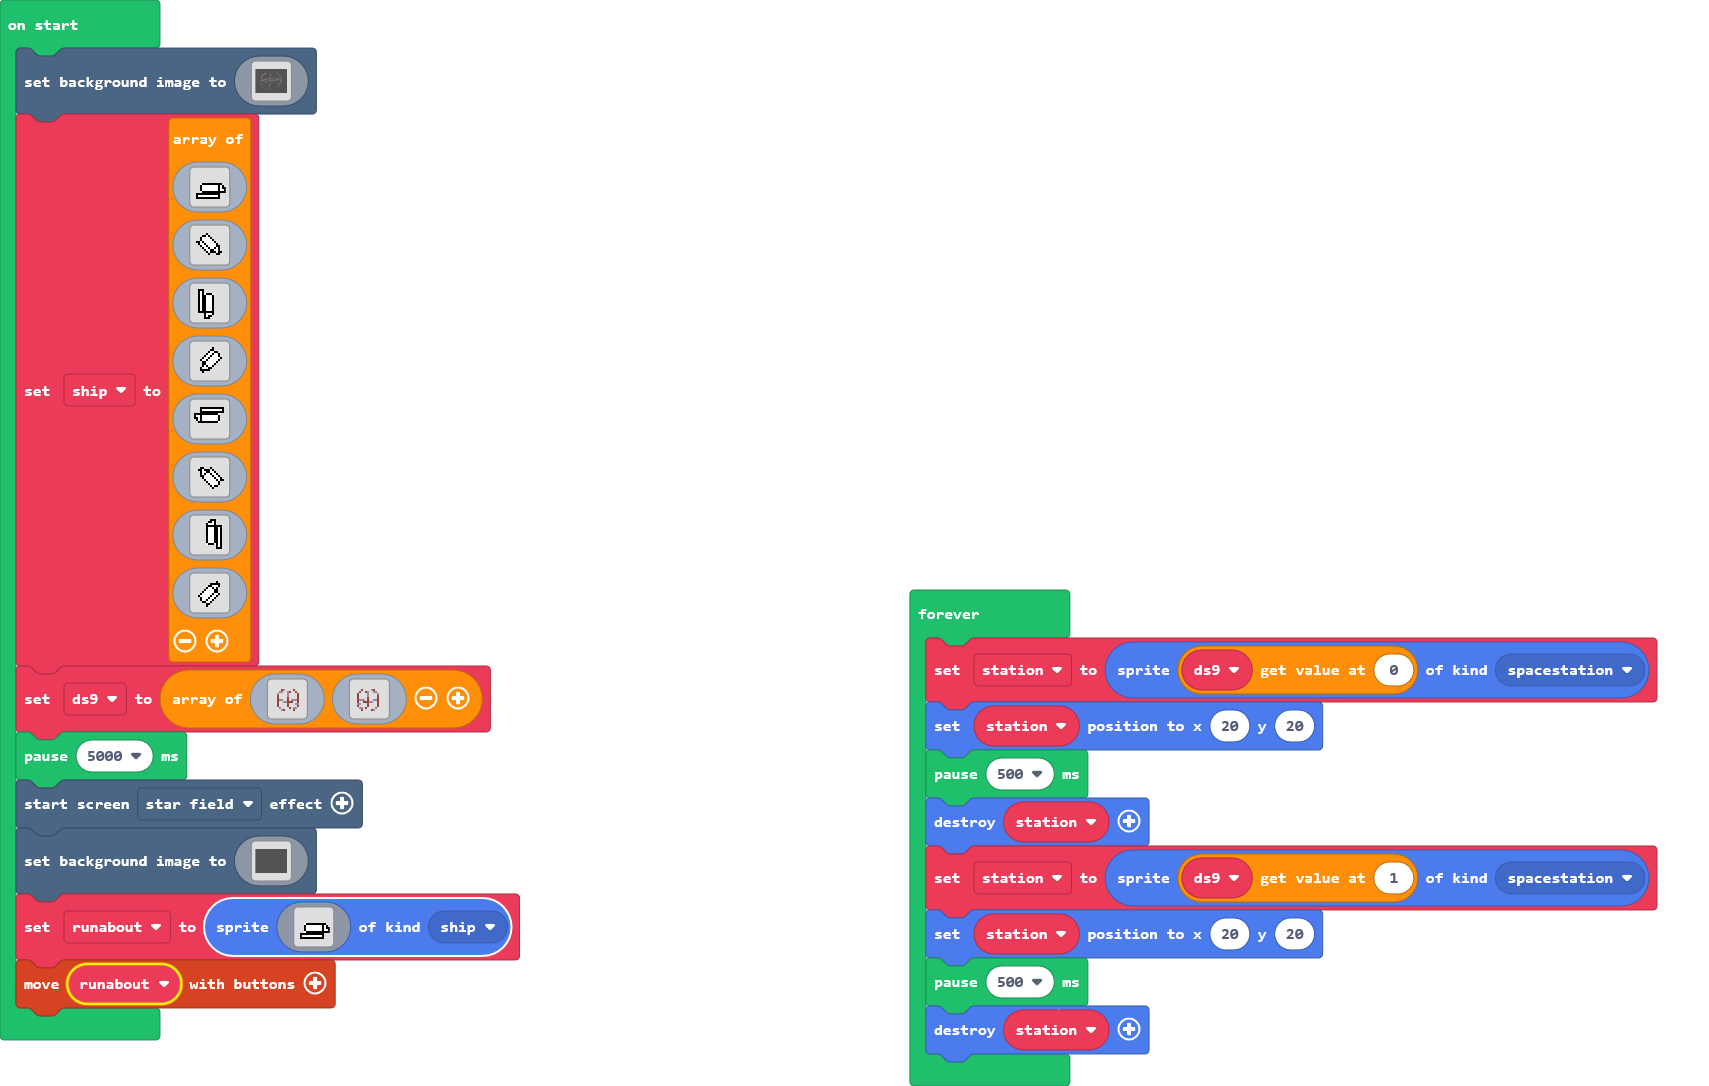
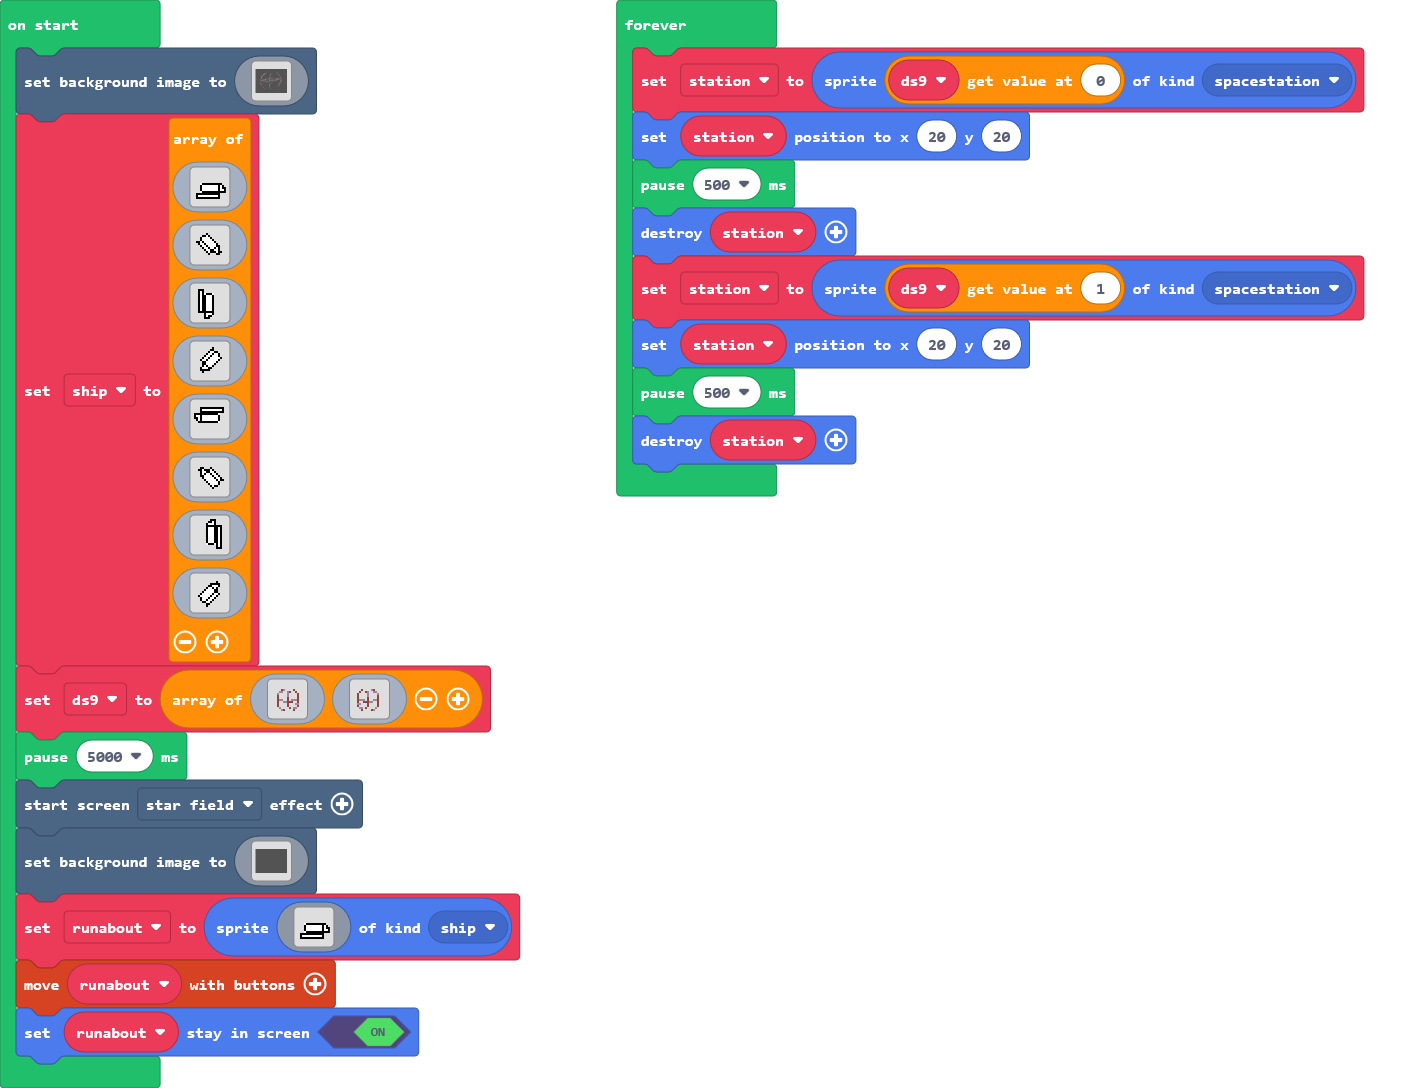
Update main.blocks, main.ts

diff --git a/main.ts b/main.ts
@@ -262,6 +262,7 @@ scene.setBackgroundImage(img`
     `)
 let runabout = sprites.create(assets.image`myImage9`, SpriteKind.ship)
 controller.moveSprite(runabout)
+runabout.setStayInScreen(true)
 forever(function () {
     station = sprites.create(ds9[0], SpriteKind.spacestation)
     station.setPosition(20, 20)
